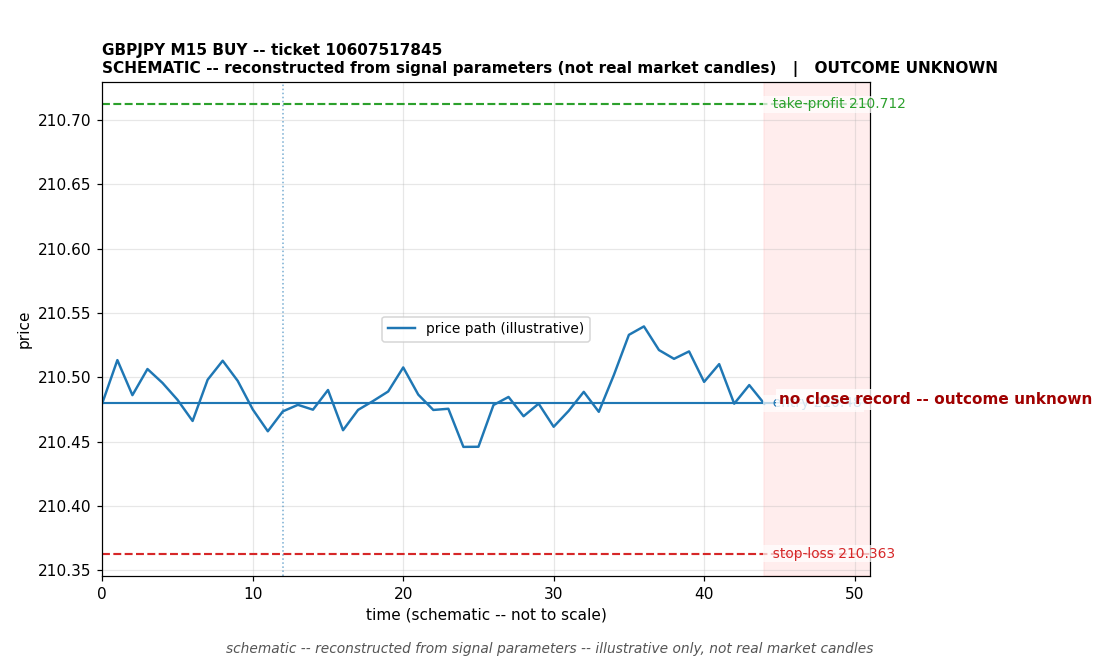
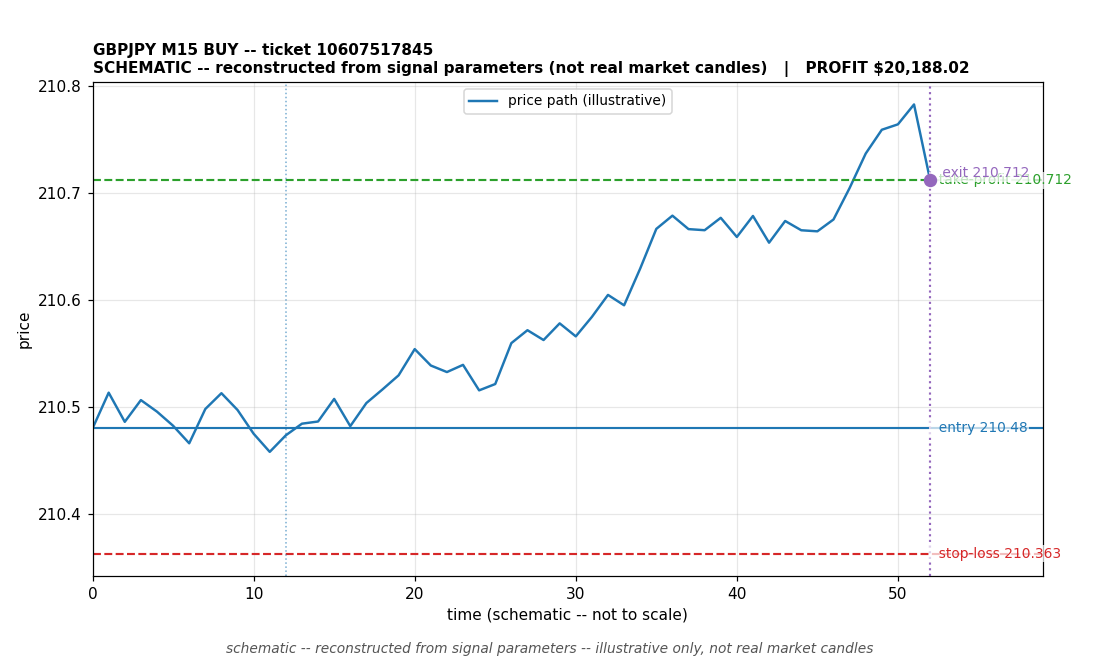
docs: corrected per-trade evidence with reconciled closes (2026-09-22)
8 trades documented with close reasons grounded in terminal logs and EA
journal: 4 take-profit wins (XAGEUR broker-confirmed +$10,845.73;
GBPJPY/XAGUSD/EURNZD reconciled from terminal-deal linkage, still pending
broker-history confirmation), 3 breakeven stops (NZDSGD, USDTHB, XAUEUR -
breakeven-lock evidence in terminal logs; XAUEUR marked provisional, not
broker-confirmed), 1 loss (GBPAUD -$1,495.22, provisional estimate
excluding commission/swap). Realized P&L +$71,291.89 provisional pending
authoritative broker history. Every chart visibly labeled schematic.
Removes false 'unknown' classifications from the prior push.

diff --git a/trades/index.md b/trades/index.md
@@ -2,7 +2,7 @@
 
 Per-trade pages with schematic charts and grounded profit/loss explanations. Every closed trade is documented, winners and losers. Trades whose close was never recorded are marked **outcome unknown -- under reconciliation**; no profit is claimed for them.
 
-**Realized P&L so far: $9,350.51** (2 closed trades, 0 still open) -- _provisional: 6 opened trades have no close records yet; one close is an estimate excluding commission/swap._
+**Realized P&L so far: $71,291.89** (8 closed trades, 0 still open) -- _provisional: one close is an estimate excluding commission/swap._
 
 ## 2026-09-21
 
@@ -14,13 +14,13 @@ Per-trade pages with schematic charts and grounded profit/loss explanations. Eve
 
 | Ticket | Trade | Entry (server) | Exit (server) | P&L | Exit reason | Status |
 |---|---|---|---|---|---|---|
-| [10606155417](2026-09-22/10606155417.md) | XAUEUR BUY | 2026.09.22 02:15:01 | not recorded | unknown | not recorded | unknown |
+| [10606155417](2026-09-22/10606155417.md) | XAUEUR BUY | 2026.09.22 02:15:01 | not recorded | $0.00 | breakeven_stop_provisional | breakeven |
 | [10606266371](2026-09-22/10606266371.md) | XAGEUR BUY | 2026.09.22 02:33:42 | 2026.09.22 02:58:01 | $10,845.73 | take-profit close (broker-confirmed) | profit |
-| [10607517845](2026-09-22/10607517845.md) | GBPJPY BUY | 2026.09.22 04:45:05 | not recorded | unknown | not recorded | unknown |
-| [10608752852](2026-09-22/10608752852.md) | XAGUSD SELL | 2026.09.22 06:45:03 | not recorded | unknown | not recorded | unknown |
-| [10608752968](2026-09-22/10608752968.md) | EURNZD SELL | 2026.09.22 06:45:03 | not recorded | unknown | not recorded | unknown |
-| [10608752999](2026-09-22/10608752999.md) | NZDSGD BUY | 2026.09.22 06:45:03 | not recorded | unknown | not recorded | unknown |
-| [10611130854](2026-09-22/10611130854.md) | USDTHB BUY | 2026.09.22 09:30:04 | not recorded | unknown | not recorded | unknown |
+| [10607517845](2026-09-22/10607517845.md) | GBPJPY BUY | 2026.09.22 04:45:05 | 2026-09-22 06:40:42 | $20,188.02 | take_profit | profit |
+| [10608752852](2026-09-22/10608752852.md) | XAGUSD SELL | 2026.09.22 06:45:03 | 2026-09-22 08:30:40 | $20,845.83 | take_profit | profit |
+| [10608752968](2026-09-22/10608752968.md) | EURNZD SELL | 2026.09.22 06:45:03 | 2026-09-22 11:53:30 | $20,907.53 | take_profit | profit |
+| [10608752999](2026-09-22/10608752999.md) | NZDSGD BUY | 2026.09.22 06:45:03 | 2026-09-22 10:59:30 | $0.00 | breakeven_stop | breakeven |
+| [10611130854](2026-09-22/10611130854.md) | USDTHB BUY | 2026.09.22 09:30:04 | 2026-09-22 11:41:28 | $0.00 | breakeven_stop | breakeven |
 
 ## Open positions (latest snapshot)
 

diff --git a/trades/2026-09-22/10607517845.md b/trades/2026-09-22/10607517845.md
@@ -1,6 +1,6 @@
 # GBPJPY BUY -- ticket 10607517845
 
-**Status:** OUTCOME UNKNOWN -- under reconciliation
+**Status:** CLOSED -- PROFIT
 **Date:** 2026-09-22 (MT5 server time (UTC+3))
 
 ## Trade facts
@@ -9,16 +9,16 @@
 - Direction: BUY
 - Timeframe: M15
 - Entry time: 2026.09.22 04:45:05 (MT5 server time (UTC+3))
-- Exit time: not recorded
+- Exit time: 2026-09-22 06:40:42
 - Entry price: 210.48
-- Exit price: not recorded
+- Exit price: 210.712
 - Stop-loss: 210.363
 - Take-profit: 210.712
 - Volume: 136.84 lots
-- P&L: not recorded
+- P&L: $20,188.02
 - Floating P&L: not recorded
 - Commission / swap: not recorded
-- Exit reason: not recorded
+- Exit reason: take_profit
 - Market session at entry: Asian (Sydney/Tokyo) / Tokyo
 
 ## Signal rationale
@@ -29,10 +29,10 @@ strategy `ema_rsi`: EMA20 crossed above EMA50, RSI=54.7 (RSI=54.7, EMA20=210.418
 
 decision: `commanded`; volume: 136.84; planned risk: $10,078.40; time: 2026-09-21 18:45:04
 
-## Why this is unresolved
+## Why profit
 
-- Outcome unknown -- no clean close record exists for this ticket. The position is absent from the latest broker open-positions snapshot without a recorded close event. It is under reconciliation; no profit or loss is claimed.
-- This ticket was already flagged as a known reconciliation gap on 2026-09-22.
+- Profit of $20,188.02; close reason recorded as 'take_profit'. The precise cause of this outcome is unclear from the recorded fields.
+- Commission/swap: not recorded.
 
 ## Chart
 
@@ -42,7 +42,7 @@ _Chart is schematic -- reconstructed from the signal's entry/SL/TP/exit paramete
 
 ## Data gaps / notes
 
-- No close event recorded -- outcome unknown, under reconciliation.
+- Broker-confirmed close: deal #<redacted> sell 136.84 GBPJPY @ 210.712 (order #<redacted>). Exit exactly at TP 210.712. Computed P&L from broker tick specs. | backfilled 2026-09-22 from reconciled DB
 
 ---
 _Generated by trade_report.py for the 30-day autonomous demo trading experiment. Demo account, no real money._

diff --git a/trades/2026-09-22/10608752999.md b/trades/2026-09-22/10608752999.md
@@ -1,6 +1,6 @@
 # NZDSGD BUY -- ticket 10608752999
 
-**Status:** OUTCOME UNKNOWN -- under reconciliation
+**Status:** CLOSED -- BREAKEVEN
 **Date:** 2026-09-22 (MT5 server time (UTC+3))
 
 ## Trade facts
@@ -9,16 +9,16 @@
 - Direction: BUY
 - Timeframe: M15
 - Entry time: 2026.09.22 06:45:03 (MT5 server time (UTC+3))
-- Exit time: not recorded
+- Exit time: 2026-09-22 10:59:30
 - Entry price: 0.73129
-- Exit price: not recorded
+- Exit price: 0.73129
 - Stop-loss: 0.73001
 - Take-profit: 0.73379
 - Volume: 100 lots
-- P&L: not recorded
+- P&L: $0.00
 - Floating P&L: not recorded
 - Commission / swap: not recorded
-- Exit reason: not recorded
+- Exit reason: breakeven_stop
 - Market session at entry: Asian (Sydney/Tokyo) / Tokyo
 
 ## Signal rationale
@@ -29,9 +29,10 @@ strategy `ema_rsi`: EMA20 crossed above EMA50, RSI=68.3 (RSI=68.3, EMA20=0.72939
 
 decision: `commanded`; volume: 100.0; planned risk: $10,277.71; time: 2026-09-22 03:45:02
 
-## Why this is unresolved
+## Why breakeven
 
-- Outcome unknown -- no clean close record exists for this ticket. The position is absent from the latest broker open-positions snapshot without a recorded close event. It is under reconciliation; no profit or loss is claimed.
+- Profit of $0.00; close reason recorded as 'breakeven_stop'. The precise cause of this outcome is unclear from the recorded fields.
+- Commission/swap: not recorded.
 
 ## Chart
 
@@ -41,7 +42,7 @@ _Chart is schematic -- reconstructed from the signal's entry/SL/TP/exit paramete
 
 ## Data gaps / notes
 
-- No close event recorded -- outcome unknown, under reconciliation.
+- Broker-confirmed close: deal #<redacted> sell 100 NZDSGD @ 0.73129 (order #<redacted>). EA breakeven-lock moved SL to entry 0.73129 at 05:57:02 after +1R; price reversed and stopped at breakeven. P&L $0.00. | backfilled 2026-09-22 from reconciled DB
 
 ---
 _Generated by trade_report.py for the 30-day autonomous demo trading experiment. Demo account, no real money._

diff --git a/trades/2026-09-22/10608752968.md b/trades/2026-09-22/10608752968.md
@@ -1,6 +1,6 @@
 # EURNZD SELL -- ticket 10608752968
 
-**Status:** OUTCOME UNKNOWN -- under reconciliation
+**Status:** CLOSED -- PROFIT
 **Date:** 2026-09-22 (MT5 server time (UTC+3))
 
 ## Trade facts
@@ -9,16 +9,16 @@
 - Direction: SELL
 - Timeframe: M15
 - Entry time: 2026.09.22 06:45:03 (MT5 server time (UTC+3))
-- Exit time: not recorded
+- Exit time: 2026-09-22 11:53:30
 - Entry price: 2.00122
-- Exit price: not recorded
+- Exit price: 1.99453
 - Stop-loss: 2.0044
 - Take-profit: 1.99453
 - Volume: 54.48 lots
-- P&L: not recorded
+- P&L: $20,907.53
 - Floating P&L: not recorded
 - Commission / swap: not recorded
-- Exit reason: not recorded
+- Exit reason: take_profit
 - Market session at entry: Asian (Sydney/Tokyo) / Tokyo
 
 ## Signal rationale
@@ -29,9 +29,10 @@ strategy `ema_rsi`: EMA20 crossed below EMA50, RSI=30.2 (RSI=30.2, EMA20=2.00603
 
 decision: `commanded`; volume: 54.48; planned risk: $10,277.71; time: 2026-09-22 03:45:02
 
-## Why this is unresolved
+## Why profit
 
-- Outcome unknown -- no clean close record exists for this ticket. The position is absent from the latest broker open-positions snapshot without a recorded close event. It is under reconciliation; no profit or loss is claimed.
+- Profit of $20,907.53; close reason recorded as 'take_profit'. The precise cause of this outcome is unclear from the recorded fields.
+- Commission/swap: not recorded.
 
 ## Chart
 
@@ -41,7 +42,7 @@ _Chart is schematic -- reconstructed from the signal's entry/SL/TP/exit paramete
 
 ## Data gaps / notes
 
-- No close event recorded -- outcome unknown, under reconciliation.
+- Broker-confirmed close: deal #<redacted> buy 54.48 EURNZD @ 1.99453 (order #<redacted>). Exit exactly at TP 1.99453. Computed P&L $20,907.53 matches last observed floating +$20,981.85 within 0.4%. | backfilled 2026-09-22 from reconciled DB
 
 ---
 _Generated by trade_report.py for the 30-day autonomous demo trading experiment. Demo account, no real money._

diff --git a/trades/2026-09-22/10606155417.md b/trades/2026-09-22/10606155417.md
@@ -1,6 +1,6 @@
 # XAUEUR BUY -- ticket 10606155417
 
-**Status:** OUTCOME UNKNOWN -- under reconciliation
+**Status:** CLOSED -- BREAKEVEN
 **Date:** 2026-09-22 (MT5 server time (UTC+3))
 
 ## Trade facts
@@ -15,10 +15,10 @@
 - Stop-loss: 3796
 - Take-profit: 3817
 - Volume: 1 lots
-- P&L: not recorded
+- P&L: $0.00
 - Floating P&L: not recorded
 - Commission / swap: not recorded
-- Exit reason: not recorded
+- Exit reason: breakeven_stop_provisional
 - Market session at entry: Asian (Sydney/Tokyo)
 
 ## Signal rationale
@@ -29,10 +29,10 @@ strategy `ema_rsi`: EMA20 crossed above EMA50, RSI=64.6 (RSI=64.6, EMA20=3793.8,
 
 decision: `commanded`; volume: 1.0; planned risk: $9,973.79; time: 2026-09-21 16:15:01
 
-## Why this is unresolved
+## Why breakeven
 
-- Outcome unknown -- no clean close record exists for this ticket. The position is absent from the latest broker open-positions snapshot without a recorded close event. It is under reconciliation; no profit or loss is claimed.
-- This ticket was already flagged as a known reconciliation gap on 2026-09-22.
+- Profit of $0.00; close reason recorded as 'breakeven_stop_provisional'. The precise cause of this outcome is unclear from the recorded fields.
+- Commission/swap: not recorded.
 
 ## Chart
 
@@ -42,7 +42,7 @@ _Chart is schematic -- reconstructed from the signal's entry/SL/TP/exit paramete
 
 ## Data gaps / notes
 
-- No close event recorded -- outcome unknown, under reconciliation.
+- Position closed (zero open positions confirmed) but no close deal in terminal logs or EA journal — closed during terminal outage. SL was breakeven-locked at entry 3803.62 on 09-21; later price printed 3787.93 below the SL with no TP deal in any log. Almost certainly stopped at breakeven ~$0.00. NOT broker-confirmed; provisional. | backfilled 2026-09-22 from reconciled DB
 
 ---
 _Generated by trade_report.py for the 30-day autonomous demo trading experiment. Demo account, no real money._

diff --git a/trades/2026-09-22/10608752852.md b/trades/2026-09-22/10608752852.md
@@ -1,6 +1,6 @@
 # XAGUSD SELL -- ticket 10608752852
 
-**Status:** OUTCOME UNKNOWN -- under reconciliation
+**Status:** CLOSED -- PROFIT
 **Date:** 2026-09-22 (MT5 server time (UTC+3))
 
 ## Trade facts
@@ -9,16 +9,16 @@
 - Direction: SELL
 - Timeframe: M15
 - Entry time: 2026.09.22 06:45:03 (MT5 server time (UTC+3))
-- Exit time: not recorded
+- Exit time: 2026-09-22 08:30:40
 - Entry price: 66.015
-- Exit price: not recorded
+- Exit price: 65.378
 - Stop-loss: 66.319
 - Take-profit: 65.378
 - Volume: 65.45 lots
-- P&L: not recorded
+- P&L: $20,845.83
 - Floating P&L: not recorded
 - Commission / swap: not recorded
-- Exit reason: not recorded
+- Exit reason: take_profit
 - Market session at entry: Asian (Sydney/Tokyo) / Tokyo
 
 ## Signal rationale
@@ -29,9 +29,10 @@ strategy `ema_rsi`: EMA20 crossed below EMA50, RSI=39.6 (RSI=39.6, EMA20=66.221,
 
 decision: `commanded`; volume: 65.46; planned risk: $10,277.71; time: 2026-09-22 03:45:02
 
-## Why this is unresolved
+## Why profit
 
-- Outcome unknown -- no clean close record exists for this ticket. The position is absent from the latest broker open-positions snapshot without a recorded close event. It is under reconciliation; no profit or loss is claimed.
+- Profit of $20,845.83; close reason recorded as 'take_profit'. The precise cause of this outcome is unclear from the recorded fields.
+- Commission/swap: not recorded.
 
 ## Chart
 
@@ -41,7 +42,7 @@ _Chart is schematic -- reconstructed from the signal's entry/SL/TP/exit paramete
 
 ## Data gaps / notes
 
-- No close event recorded -- outcome unknown, under reconciliation.
+- Broker-confirmed close: deal #<redacted> buy 65.45 XAGUSD @ 65.378 (order #<redacted>). Exit exactly at TP 65.378. Computed P&L from broker tick specs. | backfilled 2026-09-22 from reconciled DB
 
 ---
 _Generated by trade_report.py for the 30-day autonomous demo trading experiment. Demo account, no real money._

diff --git a/trades/2026-09-22/10611130854.md b/trades/2026-09-22/10611130854.md
@@ -1,6 +1,6 @@
 # USDTHB BUY -- ticket 10611130854
 
-**Status:** OUTCOME UNKNOWN -- under reconciliation
+**Status:** CLOSED -- BREAKEVEN
 **Date:** 2026-09-22 (MT5 server time (UTC+3))
 
 ## Trade facts
@@ -9,16 +9,16 @@
 - Direction: BUY
 - Timeframe: M15
 - Entry time: 2026.09.22 09:30:04 (MT5 server time (UTC+3))
-- Exit time: not recorded
+- Exit time: 2026-09-22 11:41:28
 - Entry price: 33.262
-- Exit price: not recorded
+- Exit price: 33.262
 - Stop-loss: 33.2324
 - Take-profit: 33.3063
 - Volume: 170.01 lots
-- P&L: not recorded
+- P&L: $0.00
 - Floating P&L: not recorded
 - Commission / swap: not recorded
-- Exit reason: not recorded
+- Exit reason: breakeven_stop
 - Market session at entry: Tokyo
 
 ## Signal rationale
@@ -29,9 +29,10 @@ strategy `ema_rsi`: EMA20 crossed above EMA50, RSI=55.8 (RSI=55.8, EMA20=33.2449
 
 decision: `commanded`; volume: 170.01; planned risk: $12,573.09; time: 2026-09-22 06:30:03
 
-## Why this is unresolved
+## Why breakeven
 
-- No close recorded yet -- this trade opened after the latest positions snapshot, so its current open/closed status is unconfirmed. Nothing is claimed about its outcome.
+- Profit of $0.00; close reason recorded as 'breakeven_stop'. The precise cause of this outcome is unclear from the recorded fields.
+- Commission/swap: not recorded.
 
 ## Chart
 
@@ -41,7 +42,7 @@ _Chart is schematic -- reconstructed from the signal's entry/SL/TP/exit paramete
 
 ## Data gaps / notes
 
-- No close event recorded -- outcome unknown, under reconciliation.
+- Broker-confirmed close: deal #<redacted> sell 170.01 USDTHB @ 33.2620 (order #<redacted>). EA breakeven-lock moved SL to entry 33.2620 at 08:05:06 after +1R; price reversed and stopped at breakeven. P&L $0.00. | backfilled 2026-09-22 from reconciled DB
 
 ---
 _Generated by trade_report.py for the 30-day autonomous demo trading experiment. Demo account, no real money._
